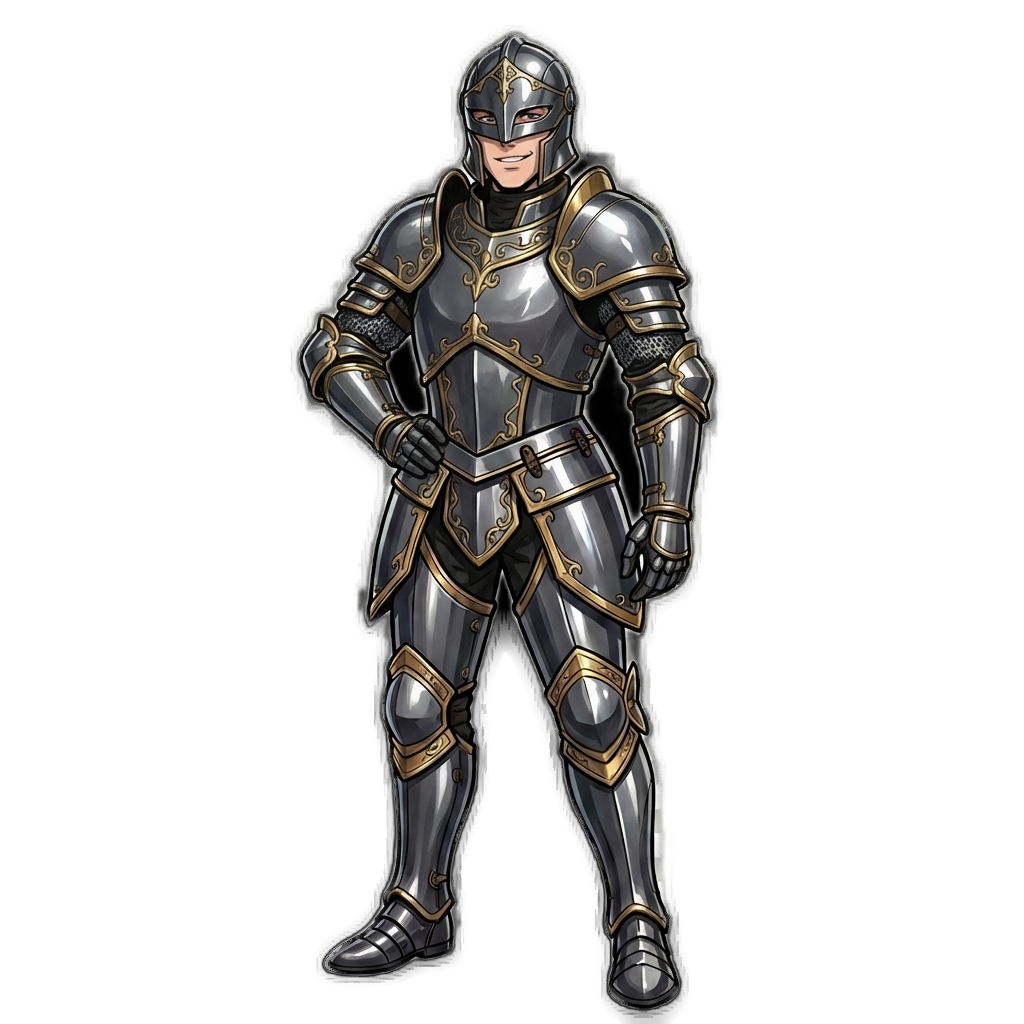
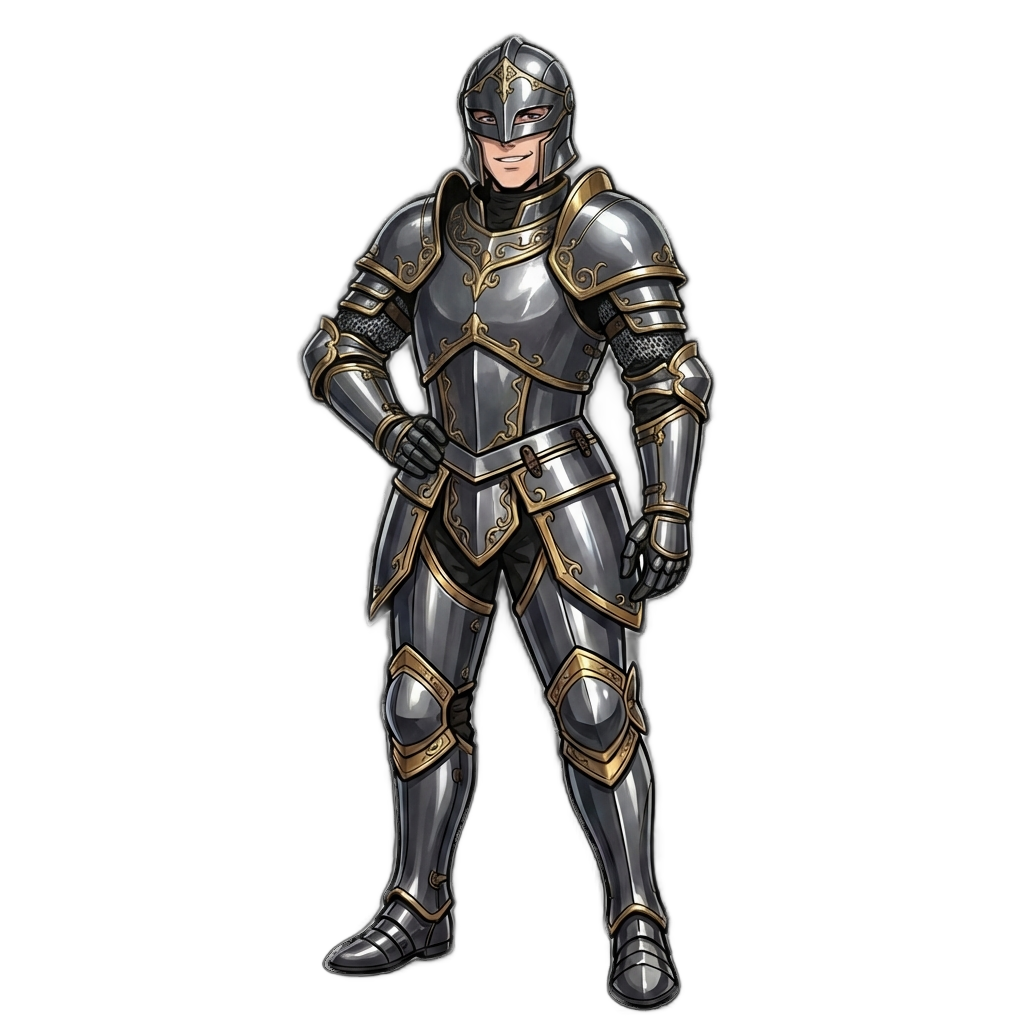
Assets: High-quality background removal using ISNET-Anime model for Thorn

diff --git a/scripts/remove_bg.py b/scripts/remove_bg.py
@@ -1,9 +1,9 @@
 import os
 import argparse
-from rembg import remove
+from rembg import remove, new_session
 from PIL import Image
 
-def process_image(input_path, output_path=None):
+def process_image(input_path, output_path=None, session=None):
     if not output_path:
         base, ext = os.path.splitext(input_path)
         output_path = f"{base}_nobg.png"
@@ -12,42 +12,15 @@ def process_image(input_path, output_path=None):
     
     try:
         input_image = Image.open(input_path)
-        output_image = remove(input_image)
-        output_image.save(output_path)
+        # Remove BG
+        out = remove(input_image, session=session)
+        out.save(output_path)
         print("Done!")
     except Exception as e:
         print(f"Error processing {input_path}: {e}")
 
 def process_directory(directory):
-    print(f"Scanning directory: {directory}")
-    for root, dirs, files in os.walk(directory):
-        for file in files:
-            if file.lower().endswith(('.png', '.jpg', '.jpeg', '.webp')):
-                # Skip already processed files if named _nobg
-                if '_nobg' in file:
-                    continue
-                
-                input_path = os.path.join(root, file)
-                # Overwrite original or create new? 
-                # Ideally create a temp folder or just overwrite if user wants.
-                # For safety, we will create a backup or suffix.
-                # Let's just update IN PLACE if requested, or suffix.
-                # User asked to "clean backgrounds". 
-                # I will save as same filename but ensure PNG.
-                
-                # Careful: If I overwrite, I lose original.
-                # I'll create a backup folder or just suffix for now.
-                # Let's save as `filename.png` (forcing png) after removal.
-                
-                # output_path = input_path # DANGEROUS
-                # Let's try to output to a specific 'processed' folder or just suffix.
-                # The user wants to USE them in the app. The app expects specific filenames.
-                # So replacing the original is the goal eventually.
-                
-                # Strategy: 
-                # 1. Rename original to .bak
-                # 2. Save new with original name.
-                pass
+    pass # Unused mostly
 
 if __name__ == "__main__":
     parser = argparse.ArgumentParser(description="Remove background from images using AI")
@@ -56,8 +29,12 @@ if __name__ == "__main__":
     
     args = parser.parse_args()
     
+    # Use Anime specialized model
+    print("Loading AI Model (isnet-anime)...")
+    session = new_session("isnet-anime")
+
     if os.path.isfile(args.path):
-        process_image(args.path)
+        process_image(args.path, session=session)
     elif os.path.isdir(args.path):
         # Scan and process
         for root, dirs, files in os.walk(args.path):
@@ -69,15 +46,9 @@ if __name__ == "__main__":
                     try:
                         # Open
                         inp = Image.open(input_path)
-                        # Remove BG with Alpha Matting for better edges
-                        print(f"  - Removing background (Alpha Matting ON)...")
-                        out = remove(
-                            inp,
-                            alpha_matting=True,
-                            alpha_matting_foreground_threshold=240,
-                            alpha_matting_background_threshold=10,
-                            alpha_matting_erode_size=10
-                        )
+                        # Remove BG using specialized session
+                        # We turn OFF alpha matting for this model first as it often handles edges better natively
+                        out = remove(inp, session=session)
                         
                         if args.overwrite:
                             # Backup
